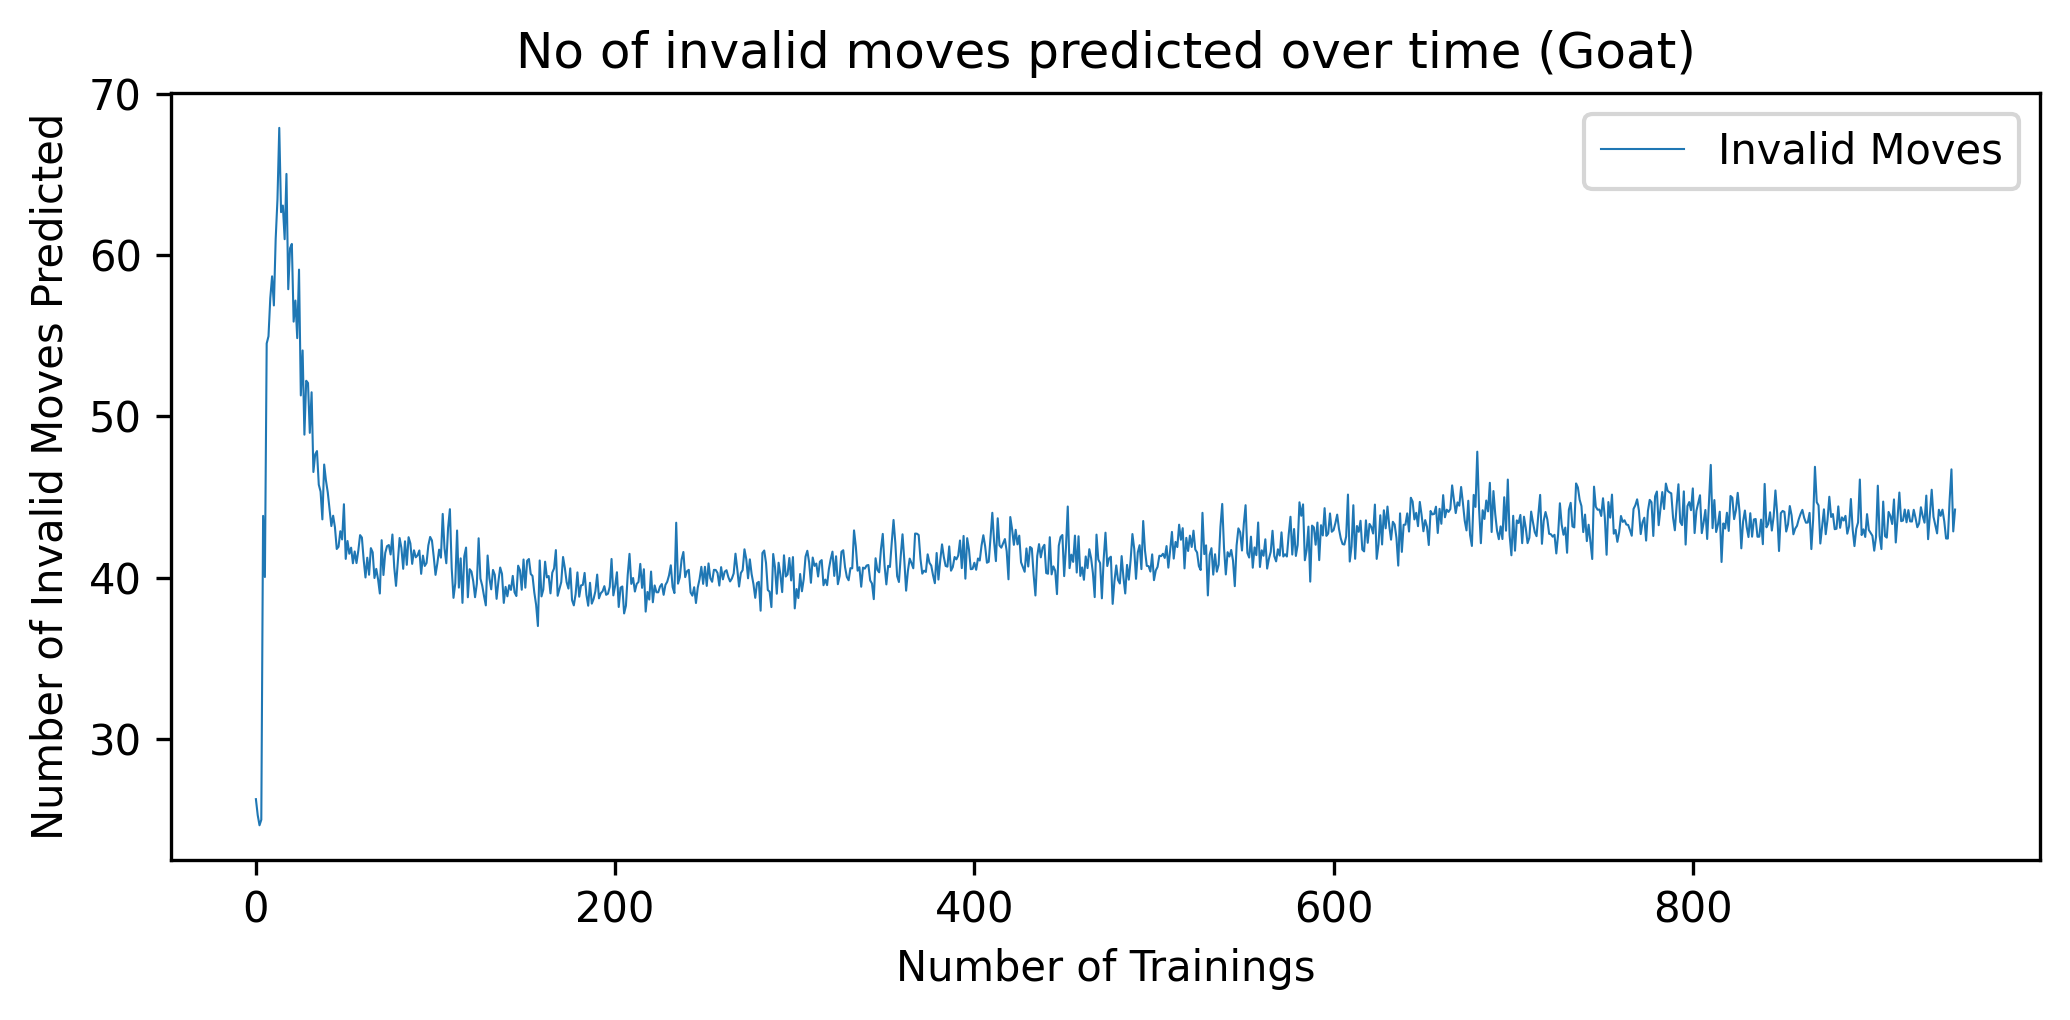
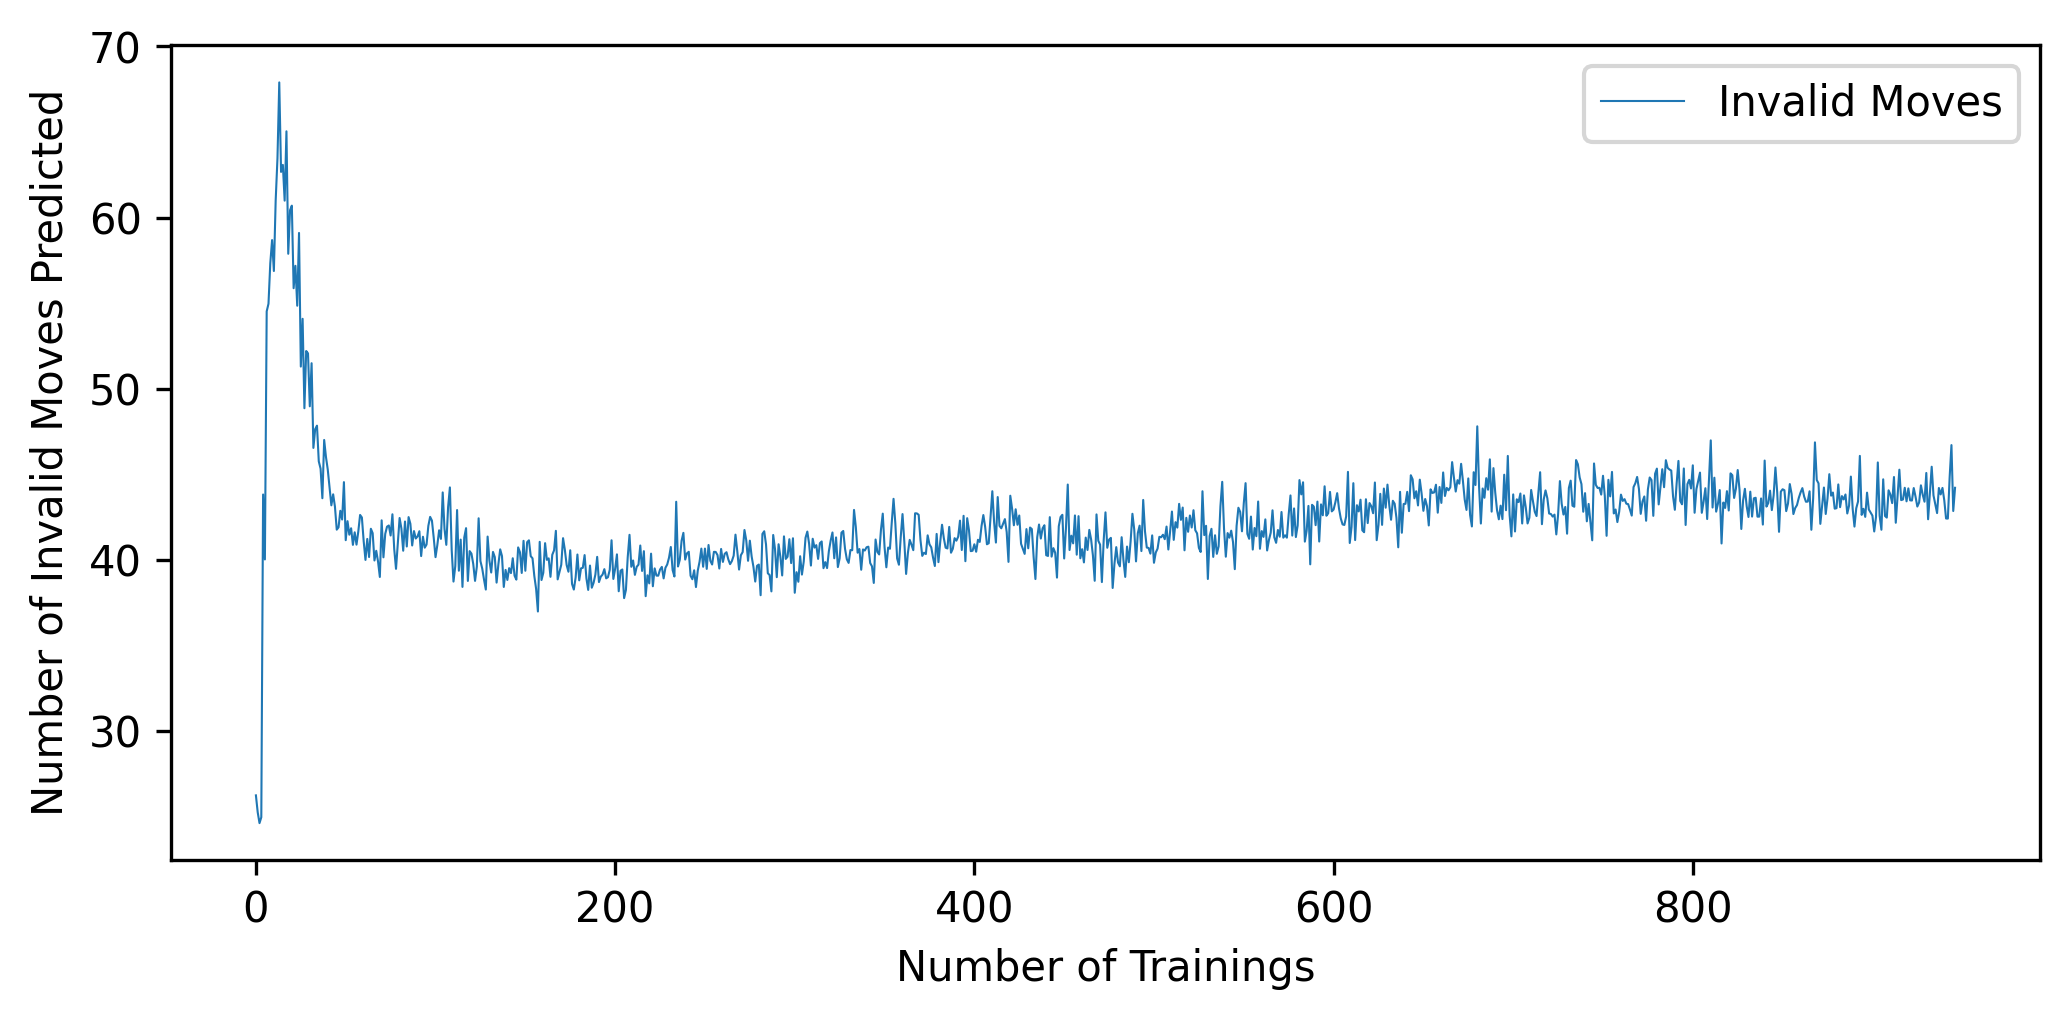
feat: percent calculation

diff --git a/policynorma/plot.py b/policynorma/plot.py
@@ -4,7 +4,6 @@ from matplotlib import pyplot as plt
 import pandas as pd
 import numpy as np
 
-
 def separate_data(file):
     with open(file, "r") as data:
         reader = csv.reader(data)
@@ -52,6 +51,17 @@ def plot_data_tiger():
     data.pop("Predicted Invalid Moves")
     data.pop("Turns")
 
+    win_percent_max = max(data["Wins"])
+    win_percent_min = min(data["Wins"])
+    print(f"Max Win Tiger: {win_percent_max * 5}")
+    print(f"Min Win Tiger: {win_percent_min *5}")
+
+    loss_percent_max = max(data["Loss"])
+    loss_percent_min = min(data["Loss"])
+    print(f"Max Loss Tiger: {loss_percent_max * 5}")
+    print(f"Min Loss Tiger: {loss_percent_min * 5}")
+    print()
+
     new_data = data[::5]
 
     wins = new_data["Wins"]
@@ -65,7 +75,6 @@ def plot_data_tiger():
 
     plt.xlabel("Number of Trainings")
     plt.ylabel("Number of Games")
-    plt.title("Tiger Wins, Loss Over Time")
     plt.legend()
 
     plt.savefig("tiger.png", dpi=300, bbox_inches="tight")
@@ -79,18 +88,34 @@ def plot_data_goat():
     data = pd.read_csv("goat.csv")
     data.pop("Predicted Invalid Moves")
     data.pop("Turns")
-    new_data = data.rolling(8).min().iloc[::8]
 
-    wins = new_data["Wins"]
-    loss = new_data["Loss"]
-    draw = new_data["Draw"]
-    time = np.arange(len(new_data)) * 8
+    win_percent_max = max(data["Wins"])
+    win_percent_min = min(data["Wins"])
+    print(f"Max Win Goat: {win_percent_max * 5}")
+    print(f"Min Win Goat: {win_percent_min *5}")
+
+    loss_percent_max = max(data["Loss"])
+    loss_percent_min = min(data["Loss"])
+    print(f"Max Loss Goat: {loss_percent_max * 5}")
+    print(f"Min Loss Goat: {loss_percent_min * 5}")
+
+    draw_percent_max = max(data["Draw"])
+    draw_percent_min = min(data["Draw"])
+    print(f"Max Draw Goat: {draw_percent_max * 5}")
+    print(f"Min Draw Goat: {draw_percent_min * 5}")
+
+    wins = data["Wins"].rolling(8).max().iloc[::8]
+
+    loss = data["Loss"].rolling(8).min().iloc[::8]
+
+    draw = data["Draw"].rolling(8).max().iloc[::8]
+
+    time = np.arange(len(data[::8]))
 
     plt.plot(time, wins, label="Wins",linewidth=0.5)
     plt.plot(time, loss, label="Loss",linewidth=0.5)
     plt.plot(time, draw, label="Draw",linewidth=0.5)
 
-    plt.title("Goat Wins, Loss and Draws Over Time")
     plt.legend()
 
     plt.xlabel("Number of Trainings")
@@ -100,7 +125,6 @@ def plot_data_goat():
     plt.clf()
 
 def plot_invalid_moves_goat():
-    print("Printing goat")
     plt.rcParams["figure.figsize"] = [7.00, 3.50]
     plt.rcParams["figure.autolayout"] = True
 
@@ -114,8 +138,10 @@ def plot_invalid_moves_goat():
     for i in range(len(invalid_moves)):
         average_invalid_moves.append(sum(invalid_moves[i])/sum(game_length[i]))
 
+    print(f"\nMax Average Invalid Moves (Goat): {max(average_invalid_moves)}")
+    print(f"Min Average Invalid Moves (Goat): {min(average_invalid_moves)}")
+
     plt.plot(range(len(average_invalid_moves)), average_invalid_moves, label="Invalid Moves",linewidth=0.5)
-    plt.title("No of invalid moves predicted over time (Goat)")
     plt.legend()
     plt.xlabel("Number of Trainings")
     plt.ylabel("Number of Invalid Moves Predicted")
@@ -123,7 +149,6 @@ def plot_invalid_moves_goat():
     plt.clf()
 
 def plot_invalid_moves_tiger():
-    print("Printing goat")
     plt.rcParams["figure.figsize"] = [7.00, 3.50]
     plt.rcParams["figure.autolayout"] = True
 
@@ -136,18 +161,84 @@ def plot_invalid_moves_tiger():
     average_invalid_moves = []
     for i in range(len(invalid_moves)):
         average_invalid_moves.append(sum(invalid_moves[i])/sum(game_length[i]))
+    
+    first_quarter = average_invalid_moves[5:int(len(average_invalid_moves)/4)]
+    print(f"\nMax Average Invalid Moves (Tiger) First Quarter: {max(first_quarter)}")
+    print(f"Min Average Invalid Moves (Tiger) First Quarter: {min(first_quarter)}")
+
+    last_half = average_invalid_moves[int(len(average_invalid_moves)/2):]
+    print(f"Average Invalid Moves (Tiger) Last Half: {sum(last_half)/len(last_half)}")
+    
+    print(f"Max Average Invalid Moves (Tiger): {max(average_invalid_moves)}")
+    print(f"Min Average Invalid Moves (Tiger): {min(average_invalid_moves)}")
 
     plt.plot(range(len(average_invalid_moves)), average_invalid_moves, label="Invalid Moves",linewidth=0.5)
-    plt.title("No of invalid moves predicted over time (Tiger)")
     plt.legend()
     plt.xlabel("Number of Trainings")
     plt.ylabel("Number of Invalid Moves Predicted")
     plt.savefig("invalid_tiger.png", dpi=300, bbox_inches="tight")
     plt.clf()
 
+def plot_average_turn_goat():
+    plt.rcParams["figure.figsize"] = [7.00, 3.50]
+    plt.rcParams["figure.autolayout"] = True
+
+    data = pd.read_csv("goat.csv")
+    game_length = data["Turns"].apply(lambda x: [int(i) for i in eval(x)])
+
+    half_game = game_length[len(game_length)//2:]
+    
+    half_avg = [sum(i)/10 for i in half_game]
+
+    avg_turns = [sum(i)/10 for i in game_length]
+
+    print(f"\nMax Average Turns Goat: {max(avg_turns)}")
+    print(f"Min Average Turns Goat: {min(avg_turns)}")
+
+    avg = sum(half_avg)/len(half_avg)
+    print(f"Half game average (Goat): {avg}")
+
+    plt.plot(range(len(avg_turns)),avg_turns, label="Average Turns",linewidth=0.5)
+    plt.legend()
+    plt.xlabel("Number of Trainings")
+    plt.ylabel("Number of Turns")
+    plt.savefig("average_turn_goat.png", dpi=300, bbox_inches="tight")
+    plt.clf()
+
+def plot_average_turn_tiger():
+    plt.rcParams["figure.figsize"] = [7.00, 3.50]
+    plt.rcParams["figure.autolayout"] = True
+
+    data = pd.read_csv("tiger.csv")
+    game_length = data["Turns"].apply(lambda x: [int(i) for i in eval(x)])
+
+    half_game = game_length[len(game_length)//2:]
+    
+    half_avg = [sum(i)/10 for i in half_game]
+
+    avg_turns = [sum(i)/10 for i in game_length]
+
+    print(f"\nMax Average Turns(Tiger): {max(avg_turns)}")
+    print(f"Min Average Turns(Tiger): {min(avg_turns)}")
+
+    avg = sum(half_avg)/len(half_avg)
+    print(f"Half game average(Tiger): {avg}")
+ 
+    plt.plot(range(len(avg_turns)),avg_turns, label="Average Turns",linewidth=0.5)
+    plt.legend()
+    plt.xlabel("Number of Trainings")
+    plt.ylabel("Number of Turns")
+    plt.savefig("average_turn_tiger.png", dpi=300, bbox_inches="tight")
+    plt.clf()
+
+
+
+
 separate_data("gameplayrecord.csv")
 plot_data_tiger()
 plot_data_goat()
 plot_invalid_moves_goat()
 plot_invalid_moves_tiger()
+plot_average_turn_goat()
+plot_average_turn_tiger()
 
